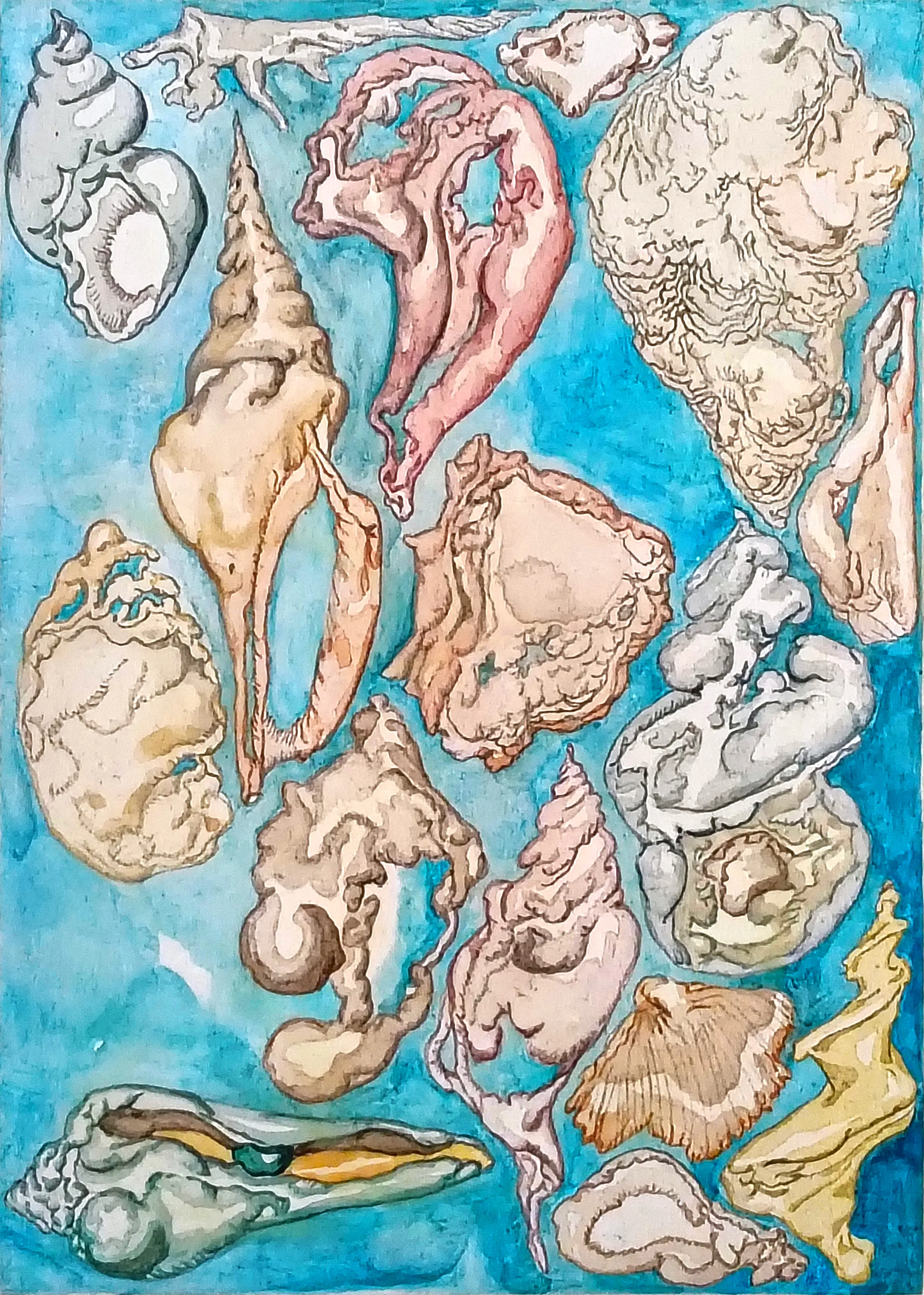
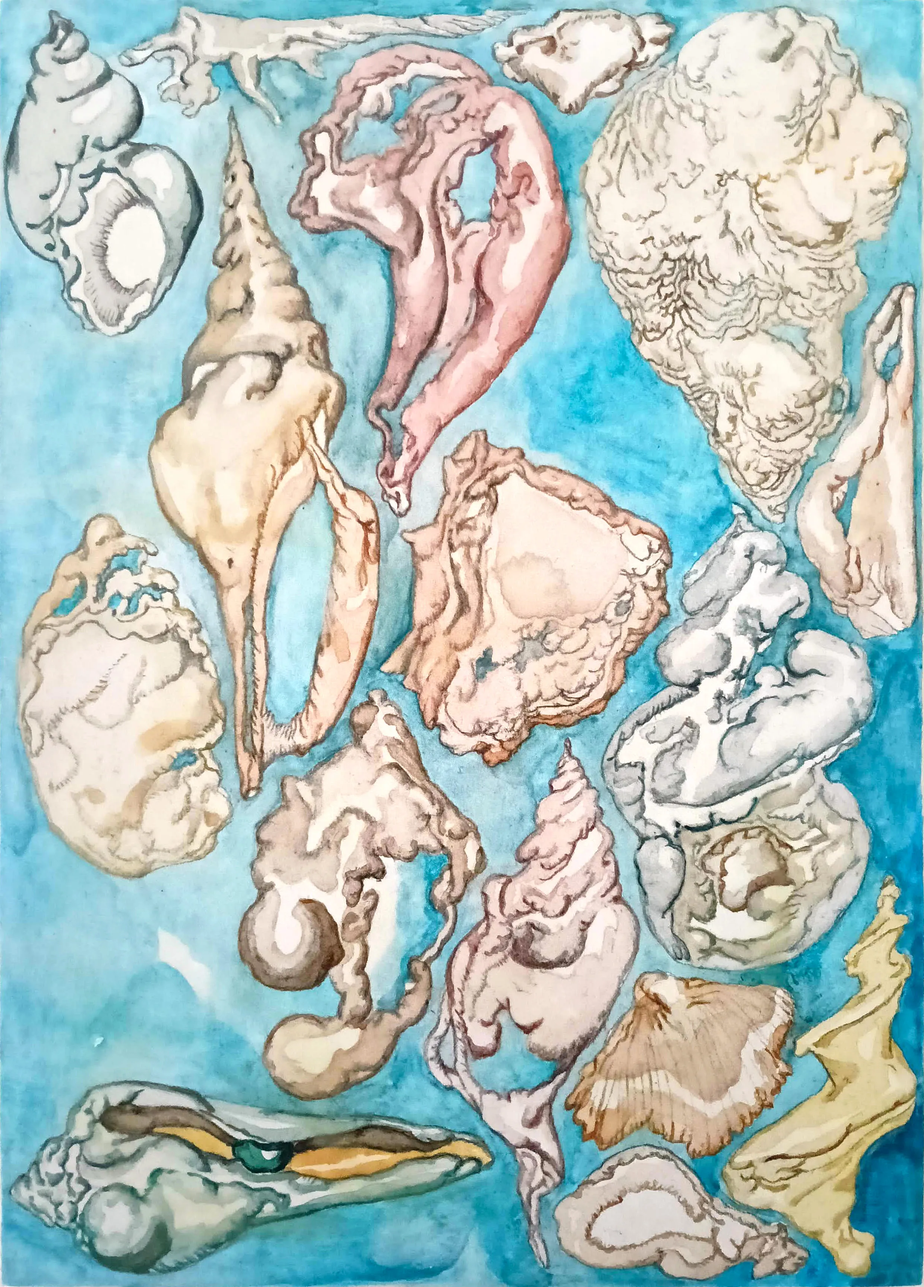
画像の変更など

diff --git a/exhibition.html b/exhibition.html
@@ -129,7 +129,7 @@
                                 新宿）</a></li>
                         <li><span class="year">2026</span> <a
                                 href="https://jam-p.com/blog/gallery_mystery/">『草のミステリー』（JAM / 大阪）</a></li>
-                        <li><span class="year">2026.6</span>『いまは伐らるる音なき樵』（BAR LAB / 千駄木）</li>
+                        <li><span class="year">2026</span>『いまは伐らるる音なき樵』（BAR LAB / 千駄木）</li>
                         <li><span class="year">2027.1</span>準備中！（新宿眼科画廊 / 新宿）</li>
                     </ul>
 

diff --git a/js/main.js b/js/main.js
@@ -243,7 +243,7 @@ window.onload = () => {
 
     const messages = [
         "煙を確認",
-        "まだ見ていますか",
+        "だれか見ていますか",
         "漂流物を検知",
         "森は連続しています",
         "みつけられました",

diff --git a/css/style.css b/css/style.css
@@ -1792,4 +1792,6 @@ footer .followUs .footer-insta {
   padding: 0 0.3rem;
   border-radius: 2px;
   font-size: 12px;
+  -webkit-box-shadow: 3px 2px 0px rgba(0, 0, 0, 0.1);
+          box-shadow: 3px 2px 0px rgba(0, 0, 0, 0.1);
 }/*# sourceMappingURL=style.css.map */

diff --git a/css/style.scss b/css/style.scss
@@ -1575,4 +1575,6 @@ footer {
     opacity: 0;
     pointer-events: none;
     @include tip-btn;
+    box-shadow:
+        3px 2px 0px rgba(0, 0, 0, 0.1)
 }
